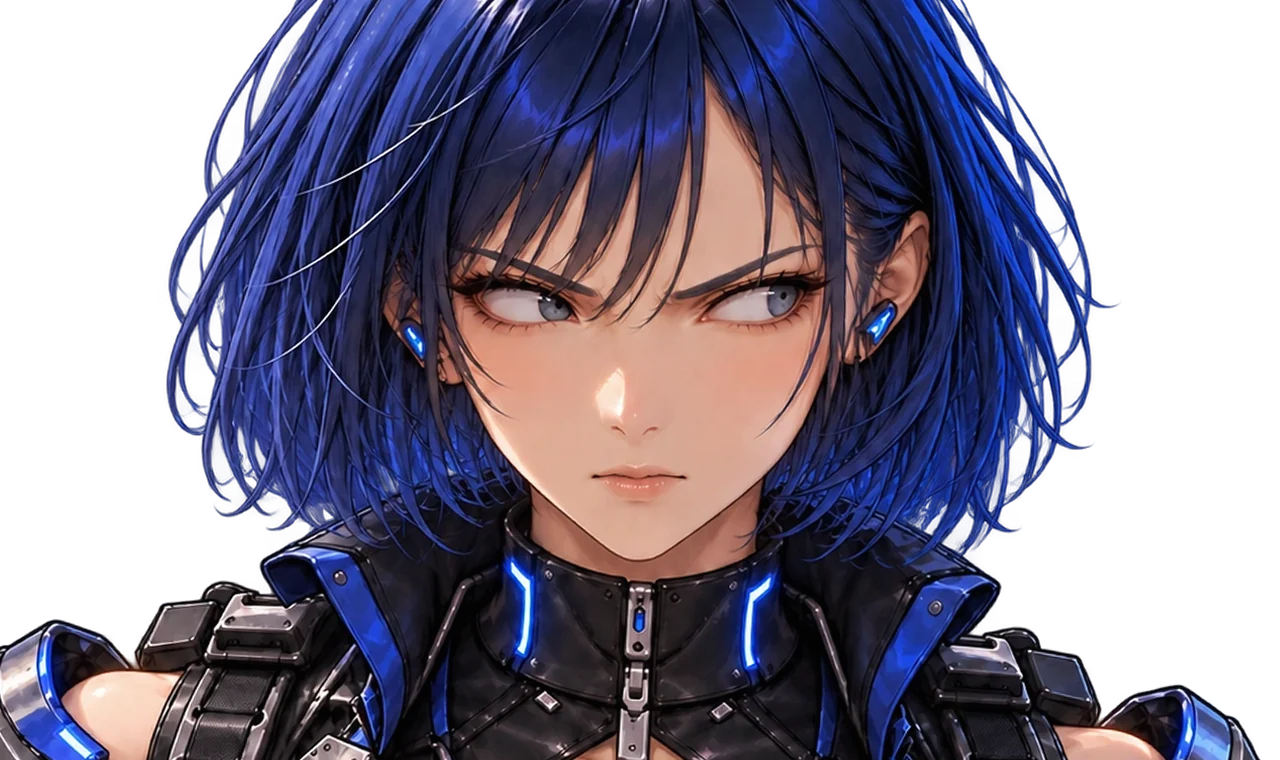
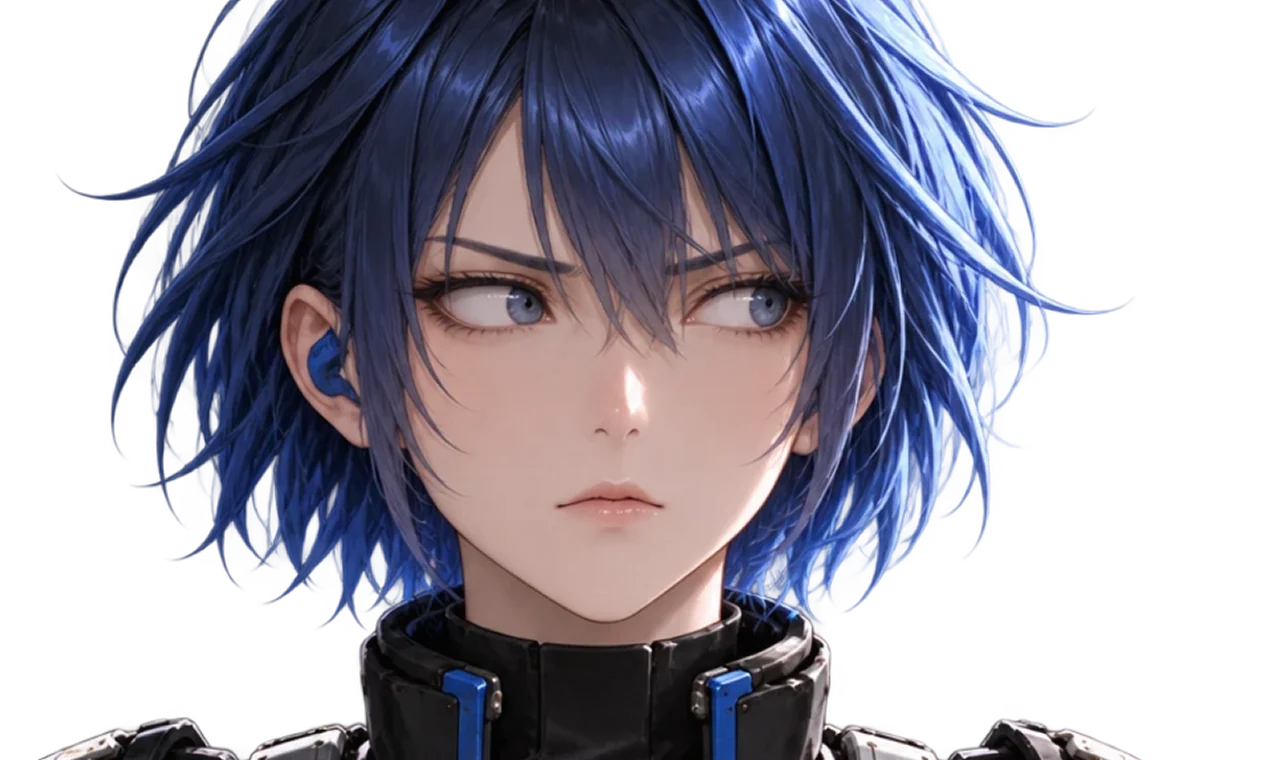
Bring in AOGANE's redrawn AOI faces

diff --git a/public/aogane/play/main.js b/public/aogane/play/main.js
@@ -2794,7 +2794,7 @@ const UNIFONT_HEX='0000000000000000000000000000000000000000080808080808080008080
 const PILOT_EXPR=['calm','closed','shout','cheer','smug','laugh','smile','grit','glance'];
 const PILOT_BASE=(typeof window!=='undefined'&&window.HF_ASSET_BASE)||'';
 const pilotImg={};
-if(typeof Image!=='undefined')for(const k of [...PILOT_EXPR,'bust_shout','bust_cheer']){const im=new Image();im.decoding='async';im.src=PILOT_BASE+'assets/pilot/aoi_'+k+'.webp';pilotImg[k]=im}
+if(typeof Image!=='undefined')for(const k of [...PILOT_EXPR,'bust_shout','bust_cheer']){const im=new Image();im.decoding='async';im.src=PILOT_BASE+'assets/pilot/aoi_'+k+'.webp?v=2';pilotImg[k]=im}
 const pilotReady=k=>{const im=pilotImg[k];return !!(im&&im.complete&&im.naturalWidth)};
 // Per-expression framing on the 1280x760 plate (pupils at 520/760, y 300): x/y in eye-distance units from the eye midpoint, z = zoom.
 const PILOT_FRAME={calm:{x:0,y:0,z:1},shout:{x:0,y:.4,z:.45},cheer:{x:0,y:.2,z:.75},smug:{x:.2,y:.02,z:1.1},laugh:{x:0,y:.3,z:.62},smile:{x:0,y:.05,z:1},grit:{x:-.12,y:-.05,z:1.2},glance:{x:.22,y:-.02,z:1.14},closed:{x:0,y:0,z:1}};

diff --git a/public/aogane/play/index.html b/public/aogane/play/index.html
@@ -53,7 +53,7 @@
     <div id="muzzleFlash"></div>
   </section>
 </main>
-<script src="main.js?v=61"></script>
+<script src="main.js?v=62"></script>
 <!-- WebGL renderer; main.js draws with Canvas until it is ready, and keeps doing so without WebGL 2 -->
 <script type="importmap">{"imports":{"three":"./vendor/three.min.js?v=0.186.0"}}</script>
 <script type="module" src="three-cel.js?v=42"></script>
